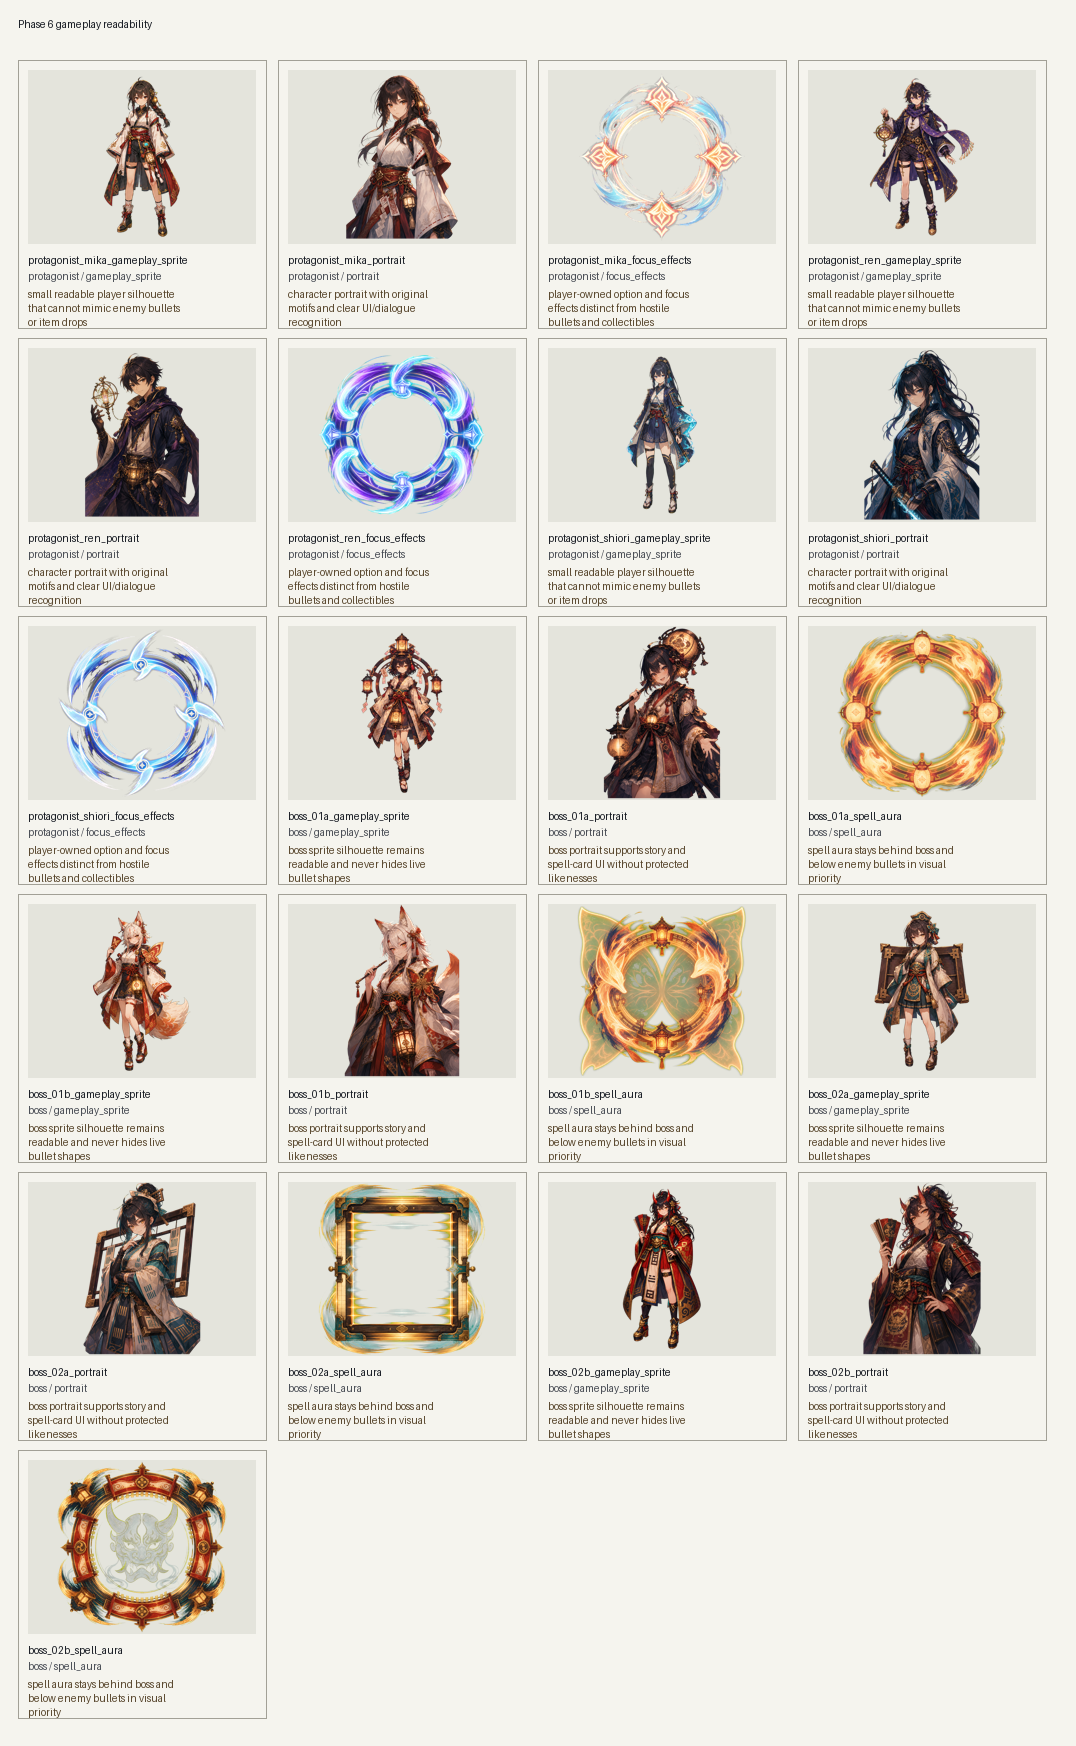
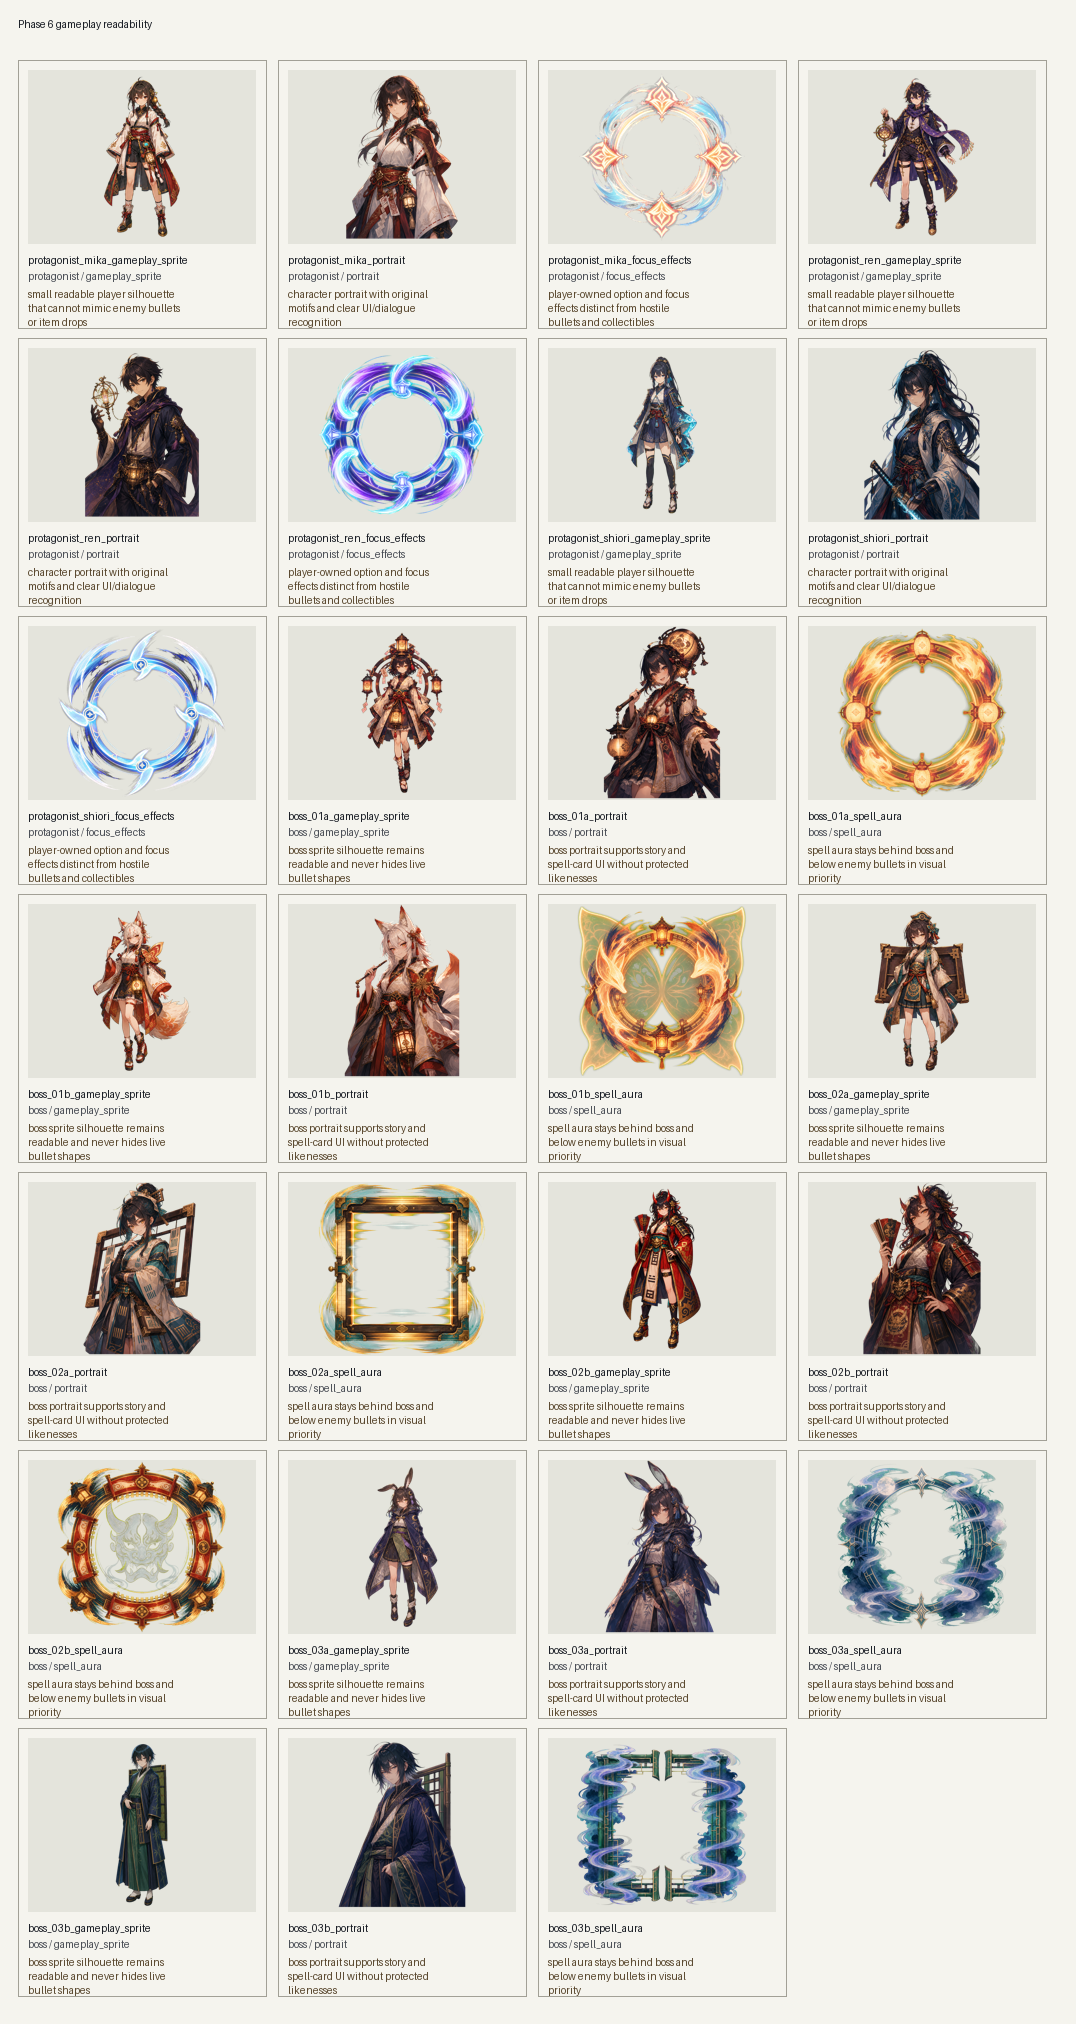
feat: add phase 6 boss art stage 3

diff --git a/docs/art/review/phase6_asset_acceptance.md b/docs/art/review/phase6_asset_acceptance.md
@@ -24,3 +24,9 @@
 | boss_02b_gameplay_sprite | accepted | Regenerated compact sprite; folded fan and no dangling item-like charms. | Matches Stage 2 oni market leader concept. | Avoids coin/gem/drop silhouettes. |
 | boss_02b_portrait | accepted | Portrait detail avoids coin clusters and small gold dots. | Matches hand-painted oni merchant-leader style. | Accepted as UI/story portrait. |
 | boss_02b_spell_aura | accepted | Broad lacquer-red/oni-mask aura; avoids coin clusters and point-item dots. | Matches Stage 2 command aura. | Used behind boss only. |
+| boss_03a_gameplay_sprite | accepted | Compact dark-blue rabbit-yokai silhouette; no hand lantern, fog trail, moon mote field, or projectile-like ornaments. | Matches Stage 3 moonlit bamboo-mist direction. | Regenerated away from white-rabbit likeness and wide accessory clutter. |
+| boss_03a_portrait | accepted | Portrait detail stays UI/story-only; no protected rabbit-character likeness or floating bullet-like moon dots. | Matches hand-painted lost-path traveler concept. | Dark ash-brown hair and cloak keep the character original. |
+| boss_03a_spell_aura | accepted | Broad moon-and-bamboo ring remains behind boss and below bullets; no dense small moon motes. | Matches Stage 3 mist and bamboo aura language. | Large fixed ring anchors are non-collectible frame elements. |
+| boss_03b_gameplay_sprite | accepted | Slim vertical silhouette with rectangular bamboo screen; no floating bamboo shards, round mirrors, bead rows, or spark particles. | Matches Oboro bamboo illusionist direction and stays distinct from Sena. | Regenerated until gold diamond and dangling ornament risks were removed. |
+| boss_03b_portrait | accepted | Portrait detail stays UI/story-only; no floating talisman sheets or projectile-like ornaments. | Matches hand-painted moonlit bamboo illusionist concept. | Rectangular trim is acceptable in portrait context. |
+| boss_03b_spell_aura | accepted | Large split-bamboo gate and broad mist bands leave an open center; no dots, bead rings, stars, or needle-like shards. | Matches Stage 3 bamboo illusion aura language. | Used behind boss only and below live bullets. |

diff --git a/docs/art/review/phase6_contact_sheets.md b/docs/art/review/phase6_contact_sheets.md
@@ -2,5 +2,5 @@
 
 | Sheet | Accepted assets | Output | Notes |
 | --- | ---: | --- | --- |
-| bosses | 12 | `phase6_contact_sheet_bosses.png` | ready for review |
-| gameplay_readability | 21 | `phase6_contact_sheet_gameplay_readability.png` | ready for review |
+| bosses | 18 | `phase6_contact_sheet_bosses.png` | ready for review |
+| gameplay_readability | 27 | `phase6_contact_sheet_gameplay_readability.png` | ready for review |
